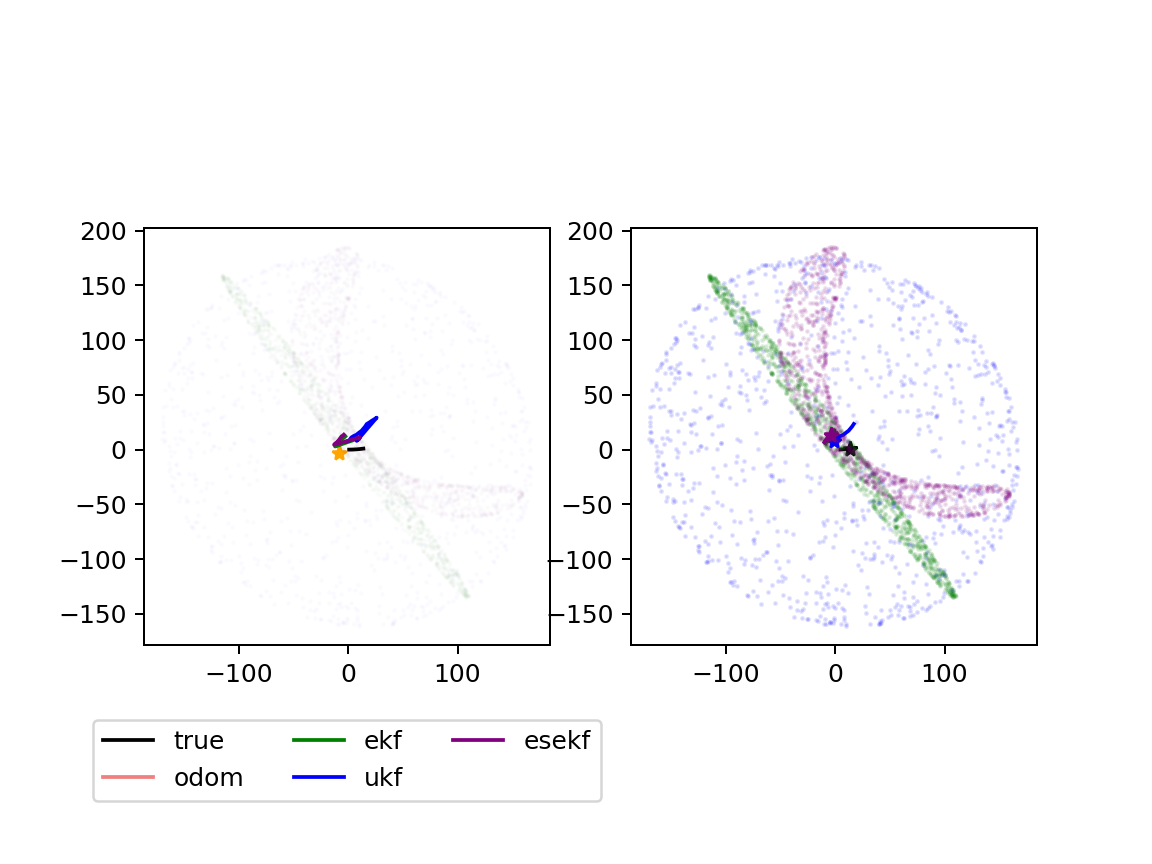
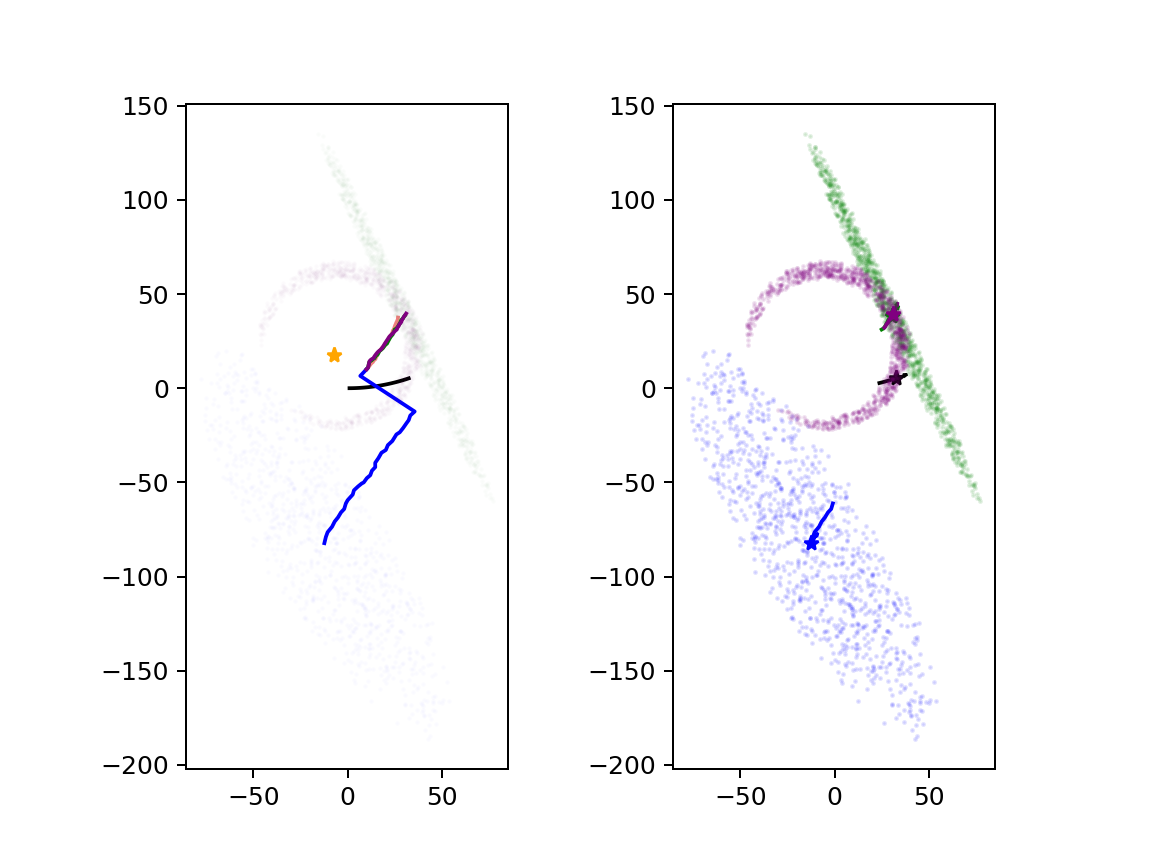
fix error ellipse drawing

diff --git a/articles/lie-group-for-robotics.md b/articles/lie-group-for-robotics.md
@@ -1305,7 +1305,7 @@ $$
 
 https://github.com/sf624/zenn-docs/blob/main/sample_codes/lie-group-for-robotics/se2_kalman_filter.ipynb
 
-黒色が真値、オレンジ色が観測更新を行わないただのオドメトリ、緑色が通常のEKF、青色が通常のUKF、そして紫色がリー代数空間によるESEKFの結果である。点群は、それぞれの2σ範囲に含まれる状態量が一様分布だと仮定してサンプリングしたもので、確率分布の広がりを可視化するために表示している。
+黒色が真値、オレンジ色が観測更新を行わないただのオドメトリ、緑色が通常のEKF、青色が通常のUKF、そして紫色がリー代数空間によるESEKFの結果である。点群は、それぞれの1σ範囲に含まれる状態量が一様分布だと仮定してサンプリングしたもので、確率分布の広がりを可視化するために表示している。
 
 ESEKFについては、実行直後のまだ不確かさが大きなときに最も違いが顕著に出ており、リー代数上で正規分布を仮定しているため、その指数写像の結果はリー代数が微小でない場合は下図のようにバナナ状の分布になることがある。この方がより実際の確率分布を適切に表現できると考えられる[^banana]。
 
